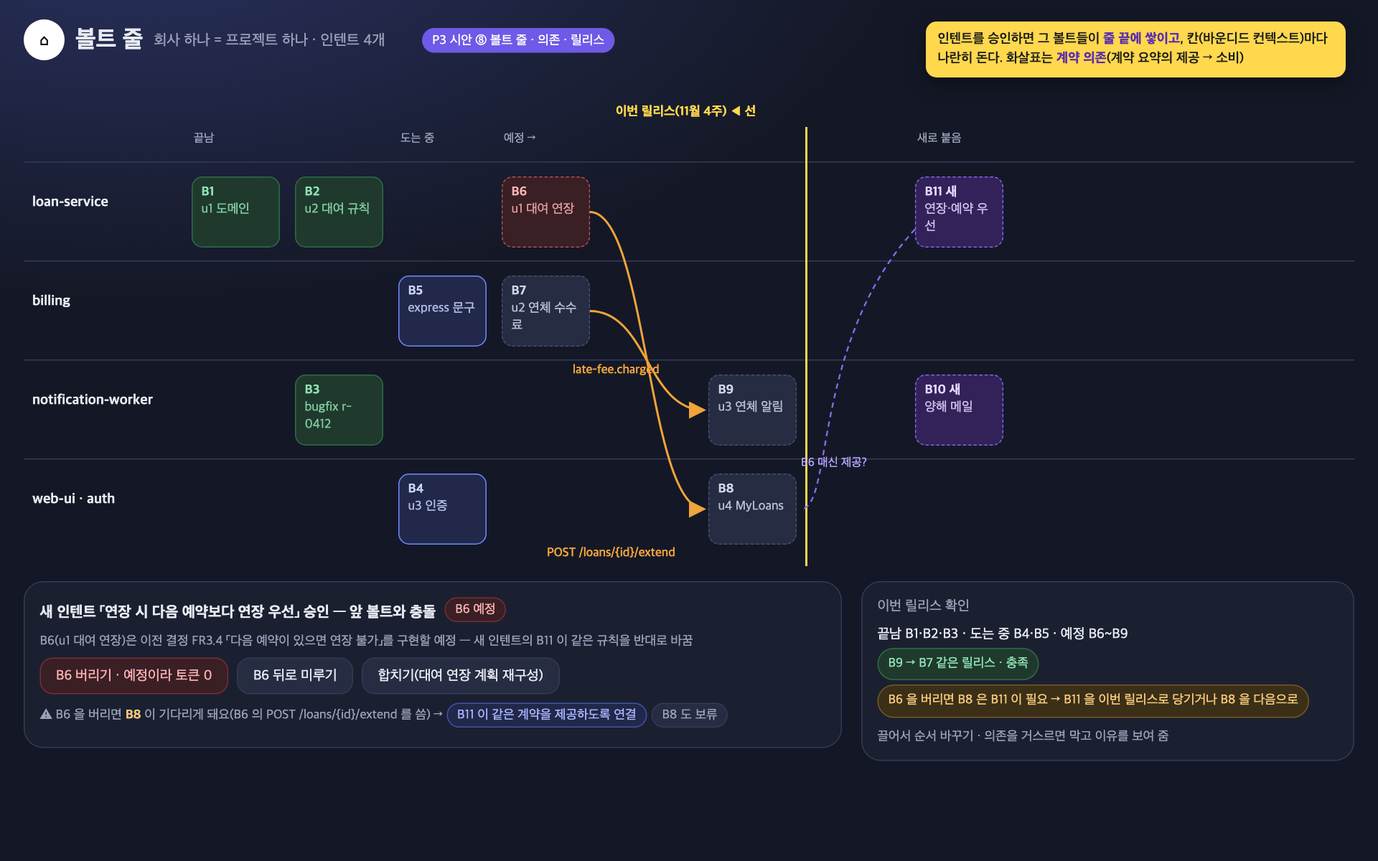
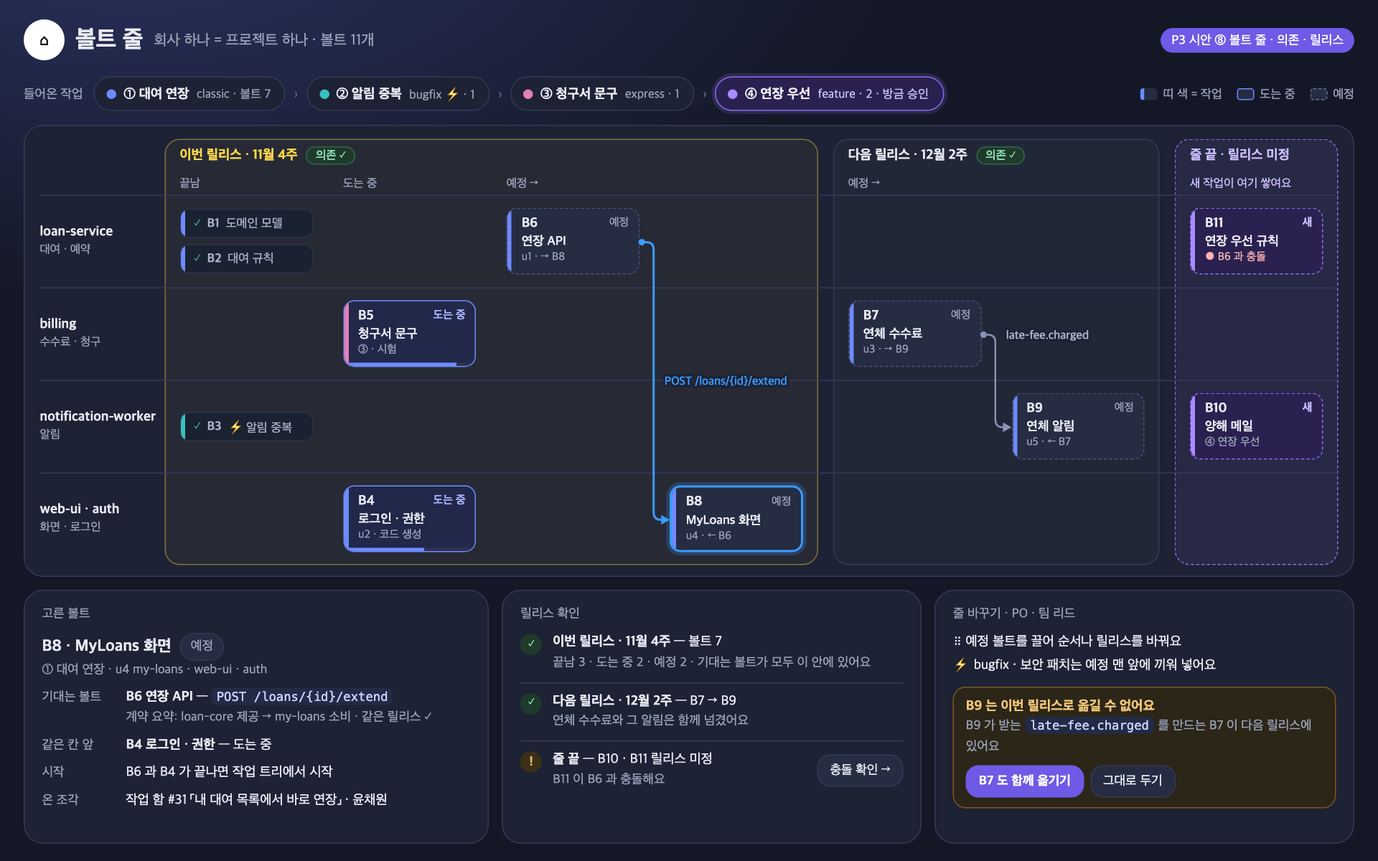
docs(robo-dlc): 볼트 줄 시안 다시 그림 — 릴리스 묶음·의존 연결선, 충돌 화면 ⑨ 분리

diff --git a/docs/robo-dlc/p3-mock/mock.html b/docs/robo-dlc/p3-mock/mock.html
@@ -235,19 +235,217 @@ table{border-collapse:collapse;width:100%;font-size:13px}th,td{text-align:left;p
 </section>
 
 
+<!-- 8·9. 볼트 줄 (v2) -->
+<style>
+.c1{--ic:#6e8bff}.c2{--ic:#35c2c1}.c3{--ic:#e57fb5}.c4{--ic:#a98bff}
+.bl-int{display:flex;align-items:center;gap:8px;height:34px;margin-bottom:12px;font-size:12.5px}
+.bl-int .lab{color:var(--sub);font-size:12px;margin-right:2px}
+.bl-int .arr{color:#5b6385}
+.ipill{display:flex;align-items:center;gap:7px;height:32px;padding:0 13px 0 11px;border-radius:16px;background:var(--panel);border:1px solid var(--line);white-space:nowrap}
+.ipill i{width:9px;height:9px;border-radius:50%;background:var(--ic)}
+.ipill span{color:var(--sub);font-size:11.5px}
+.ipill.new{border-color:#8b6cf0;background:#2a2150;box-shadow:0 0 0 3px rgba(139,108,240,.18)}
+.ipill.new span{color:#cdbfff}
+.ipill.clash{border-color:#ef5b5b;background:#3a1f25;box-shadow:0 0 0 3px rgba(239,91,91,.16)}
+.ipill.clash span{color:#ffb3b3}
+.bl-int .lg{margin-left:auto;color:var(--sub);font-size:11.5px;display:flex;gap:14px;align-items:center}
+.lg em{font-style:normal;display:inline-flex;align-items:center;gap:5px}
+.lg .sw{display:inline-block;width:16px;height:11px;border-radius:3px;background:var(--cell)}
+.board{position:relative;display:grid;grid-template-columns:116px repeat(4,1fr) 14px repeat(2,1fr) 14px 1fr;grid-template-rows:30px 22px repeat(4,86px);padding:12px 14px;height:420px}
+.board>svg{position:absolute;left:0;top:0;width:100%;height:100%;z-index:3;pointer-events:none}
+.bk{grid-row:1/7;border-radius:14px;border:1px solid var(--line);background:rgba(255,255,255,.025)}
+.bk.now{grid-column:2/6;background:rgba(255,216,77,.045);border-color:rgba(255,216,77,.42)}
+.bk.next{grid-column:7/9}
+.bk.tail{grid-column:10;background:rgba(139,108,240,.09);border:1px dashed #8b6cf0}
+.bkt{grid-row:1;align-self:center;padding:0 14px;display:flex;align-items:center;gap:8px;font-size:12.5px;font-weight:700;z-index:1;white-space:nowrap}
+.bkt .chip{margin:0;font-weight:500;font-size:11px;padding:1px 8px}
+.stl{grid-row:2;font-size:11px;color:var(--sub);padding:0 14px;align-self:center;z-index:1;white-space:nowrap}
+.ln{grid-column:1/-1;border-top:1px solid var(--line)}
+.ll{grid-column:1;align-self:center;font-size:12.5px;font-weight:700;line-height:1.35;z-index:1}
+.ll small{display:block;font-weight:400;font-size:11px;color:var(--sub)}
+.bolt{margin:12px 14px;border-radius:10px;background:var(--cell);border:1px dashed #4a5274;padding:6px 9px 6px 13px;position:relative;font-size:12px;line-height:1.32;z-index:2;overflow:hidden}
+.bolt::before,.dpill::before{content:"";position:absolute;left:0;top:0;bottom:0;width:4px;background:var(--ic)}
+.bolt .bh{display:flex;justify-content:space-between;align-items:center}
+.bolt .bh b{font-size:12.5px}
+.bolt .st{font-size:10.5px;color:var(--sub)}
+.bolt .bt{font-weight:600;white-space:nowrap;overflow:hidden;text-overflow:ellipsis}
+.bolt .bm{font-size:10.5px;color:var(--sub);margin-top:1px;white-space:nowrap}
+.bolt.run{border:1.5px solid #6e8bff;background:#22284a}
+.bolt.run .st{color:#aab8ff;font-weight:600}
+.bolt .pg{position:absolute;left:4px;right:0;bottom:0;height:3px;background:#2b3150}
+.bolt .pg i{display:block;height:100%;background:#6e8bff}
+.bolt.sel{border:2px solid #3b9bff;box-shadow:0 0 0 3px rgba(59,155,255,.22)}
+.bolt.nw{border:1.5px dashed #8b6cf0;background:#2a2150}
+.bolt.nw .st{color:#cdbfff;font-weight:700}
+.bolt.bad{border:1.5px solid #ef5b5b;background:#3a1f25}
+.bolt.bad .st,.bolt .st.r{color:#ffb3b3;font-weight:700}
+.bolt.wt{border:1.5px solid #f0a43a;background:#3b2f17}
+.bolt.wt .st{color:#f3c77a;font-weight:700}
+.dn{margin:0 14px;display:flex;flex-direction:column;gap:6px;justify-content:center;z-index:2}
+.dpill{height:27px;border-radius:8px;background:#1a2130;border:1px solid #2a3248;display:flex;align-items:center;gap:6px;padding:0 8px 0 12px;font-size:11.5px;color:#aab1c8;position:relative;overflow:hidden;white-space:nowrap}
+.dpill .ck{color:#3fbf7f;font-weight:700}
+.pns{display:flex;gap:12px;margin-top:12px;height:236px}
+.pn{padding:13px 16px;font-size:12.5px;line-height:1.5;overflow:hidden}
+.pn .h{font-size:12px;color:var(--sub);margin:0 0 8px}
+.pn code,.q code{font-family:ui-monospace,Menlo,monospace;font-size:11.5px;color:#c9d3ff;background:#232a45;border-radius:5px;padding:1px 5px}
+.kv{display:grid;grid-template-columns:70px 1fr;gap:8px;margin-top:7px}
+.kv>span{color:var(--sub);font-size:12px}
+.rl{display:flex;gap:10px;align-items:flex-start;padding:8px 0;border-top:1px solid var(--line)}
+.rl:first-of-type{border-top:0;padding-top:0}
+.ic{flex:none;width:20px;height:20px;border-radius:50%;display:grid;place-items:center;font-size:11px;font-weight:800;margin-top:1px}
+.ic.ok{background:#1f3a2c;color:#8fe0b4}.ic.wn{background:#3b2f17;color:#f3c77a}
+.blk{border:1px solid #7a5a22;background:#2c2618;border-radius:12px;padding:9px 11px;margin-top:9px}
+.opt{display:flex;align-items:center;gap:9px;padding:6px 10px;border-radius:10px;border:1px solid var(--line);background:var(--cell);margin-bottom:6px;white-space:nowrap}
+.opt .rd{width:14px;height:14px;border-radius:50%;border:2px solid #6b7396;flex:none}
+.opt.on{border-color:#8b6cf0;background:#2a2150}
+.opt.on .rd{border-color:#a98bff;background:radial-gradient(#a98bff 0 42%,transparent 48%)}
+.opt span{color:var(--sub);font-size:11.5px}
+.rec{font-size:10px;font-weight:700;color:#1b1b1b;background:#ffd84d;border-radius:8px;padding:1px 6px}
+.stp{display:inline-grid;place-items:center;width:18px;height:18px;border-radius:50%;background:var(--vio);color:#fff;font-size:11px;font-weight:700;margin-right:6px}
+</style>
+
 <!-- 8. 볼트 줄 -->
 <section class="screen" id="s8">
-  <div class="top"><div class="home">⌂</div><h1>볼트 줄</h1><span class="sl">회사 하나 = 프로젝트 하나 · 인텐트 4개</span><span class="tag" style="margin-left:24px">P3 시안 ⑧ 볼트 줄 · 의존 · 릴리스</span></div>
-  <div style="position:absolute;left:22px;top:150px;width:1236px;height:92px;border-top:1px solid #343b56"></div><div style="position:absolute;left:30px;top:180px;width:130px;font-size:13px"><b>loan-service</b></div><div style="position:absolute;left:22px;top:242px;width:1236px;height:92px;border-top:1px solid #343b56"></div><div style="position:absolute;left:30px;top:272px;width:130px;font-size:13px"><b>billing</b></div><div style="position:absolute;left:22px;top:334px;width:1236px;height:92px;border-top:1px solid #343b56"></div><div style="position:absolute;left:30px;top:364px;width:130px;font-size:13px"><b>notification-worker</b></div><div style="position:absolute;left:22px;top:426px;width:1236px;height:92px;border-top:1px solid #343b56"></div><div style="position:absolute;left:30px;top:456px;width:130px;font-size:13px"><b>web-ui · auth</b></div><div style="position:absolute;left:180px;top:122px;font-size:11px;color:#9aa1b8">끝남</div><div style="position:absolute;left:372px;top:122px;font-size:11px;color:#9aa1b8">도는 중</div><div style="position:absolute;left:468px;top:122px;font-size:11px;color:#9aa1b8">예정 →</div><div style="position:absolute;left:852px;top:122px;font-size:11px;color:#9aa1b8">새로 붙음</div><div style="position:absolute;left:748px;top:118px;width:2px;height:408px;background:#ffd84d"></div><div style="position:absolute;left:572px;top:96px;font-size:12px;color:#ffd84d;font-weight:700">이번 릴리스(11월 4주) ◀ 선</div><div style="position:absolute;left:178px;top:164px;width:82px;height:66px;background:#1f3a2c;border:1.5px solid #2f6b49;border-radius:10px;padding:6px 8px;color:#8fe0b4;font-size:12px;line-height:1.35"><b>B1</b><br><span style="opacity:.85">u1 도메인</span></div><div style="position:absolute;left:274px;top:164px;width:82px;height:66px;background:#1f3a2c;border:1.5px solid #2f6b49;border-radius:10px;padding:6px 8px;color:#8fe0b4;font-size:12px;line-height:1.35"><b>B2</b><br><span style="opacity:.85">u2 대여 규칙</span></div><div style="position:absolute;left:274px;top:348px;width:82px;height:66px;background:#1f3a2c;border:1.5px solid #2f6b49;border-radius:10px;padding:6px 8px;color:#8fe0b4;font-size:12px;line-height:1.35"><b>B3</b><br><span style="opacity:.85">bugfix r-0412</span></div><div style="position:absolute;left:370px;top:440px;width:82px;height:66px;background:#22284a;border:1.5px solid #6e8bff;border-radius:10px;padding:6px 8px;color:#c9d3ff;font-size:12px;line-height:1.35"><b>B4</b><br><span style="opacity:.85">u3 인증</span></div><div style="position:absolute;left:370px;top:256px;width:82px;height:66px;background:#22284a;border:1.5px solid #6e8bff;border-radius:10px;padding:6px 8px;color:#c9d3ff;font-size:12px;line-height:1.35"><b>B5</b><br><span style="opacity:.85">express 문구</span></div><div style="position:absolute;left:466px;top:164px;width:82px;height:66px;background:#3a1f25;border:1.5px solid #c0505d;border-style:dashed;border-radius:10px;padding:6px 8px;color:#ffb3b3;font-size:12px;line-height:1.35"><b>B6</b><br><span style="opacity:.85">u1 대여 연장</span></div><div style="position:absolute;left:466px;top:256px;width:82px;height:66px;background:#262c42;border:1.5px solid #4a5274;border-style:dashed;border-radius:10px;padding:6px 8px;color:#cfd5ea;font-size:12px;line-height:1.35"><b>B7</b><br><span style="opacity:.85">u2 연체 수수료</span></div><div style="position:absolute;left:658px;top:440px;width:82px;height:66px;background:#262c42;border:1.5px solid #4a5274;border-style:dashed;border-radius:10px;padding:6px 8px;color:#cfd5ea;font-size:12px;line-height:1.35"><b>B8</b><br><span style="opacity:.85">u4 MyLoans</span></div><div style="position:absolute;left:658px;top:348px;width:82px;height:66px;background:#262c42;border:1.5px solid #4a5274;border-style:dashed;border-radius:10px;padding:6px 8px;color:#cfd5ea;font-size:12px;line-height:1.35"><b>B9</b><br><span style="opacity:.85">u3 연체 알림</span></div><div style="position:absolute;left:850px;top:348px;width:82px;height:66px;background:#33215a;border:1.5px solid #8b6cf0;border-style:dashed;border-radius:10px;padding:6px 8px;color:#e2d8ff;font-size:12px;line-height:1.35"><b>B10 새</b><br><span style="opacity:.85">양해 메일</span></div><div style="position:absolute;left:850px;top:164px;width:82px;height:66px;background:#33215a;border:1.5px solid #8b6cf0;border-style:dashed;border-radius:10px;padding:6px 8px;color:#e2d8ff;font-size:12px;line-height:1.35"><b>B11 새</b><br><span style="opacity:.85">연장·예약 우선</span></div><svg style="position:absolute;left:0;top:0" width="1280" height="800"><defs><marker id="ah" markerWidth="8" markerHeight="8" refX="7" refY="4" orient="auto"><path d="M0,0 L8,4 L0,8 z" fill="#f0a43a"/></marker></defs>
-<path d="M548,197.0 C601.0,197.0 601.0,473.0 654,473.0" stroke="#f0a43a" stroke-width="2" fill="none" marker-end="url(#ah)"/><text x="508" y="517.0" fill="#f0a43a" font-size="11.5" font-weight="600">POST /loans/{id}/extend</text><path d="M548,289.0 C601.0,289.0 601.0,381.0 654,381.0" stroke="#f0a43a" stroke-width="2" fill="none" marker-end="url(#ah)"/><text x="532" y="347.0" fill="#f0a43a" font-size="11.5" font-weight="600">late-fee.charged</text>
-<path d="M850,213.0 C754,317.0 774,473.0 744,473.0" stroke="#8b6cf0" stroke-width="1.5" stroke-dasharray="5 4" fill="none"/><text x="744" y="433.0" fill="#b9a6ff" font-size="11">B6 대신 제공?</text></svg><div class="glass" style="position:absolute;left:22px;top:540px;width:760px;padding:14px;background:#1b2031">
-<div style="display:flex;gap:8px;align-items:center"><b>새 인텐트 「연장 시 다음 예약보다 연장 우선」 승인 — 앞 볼트와 충돌</b><span class="chip r">B6 예정</span></div>
-<div class="note" style="margin:6px 0 8px">B6(u1 대여 연장)은 이전 결정 FR3.4 「다음 예약이 있으면 연장 불가」를 구현할 예정 — 새 인텐트의 B11 이 같은 규칙을 반대로 바꿈</div>
-<div style="display:flex;gap:8px;flex-wrap:wrap"><span class="btn d">B6 버리기 · 예정이라 토큰 0</span><span class="btn">B6 뒤로 미루기</span><span class="btn">합치기(대여 연장 계획 재구성)</span></div>
-<div class="note" style="margin-top:8px">⚠ B6 을 버리면 <b style="color:#f3c77a">B8</b> 이 기다리게 돼요(B6 의 POST /loans/{id}/extend 를 씀) → <span class="chip a">B11 이 같은 계약을 제공하도록 연결</span><span class="chip">B8 도 보류</span></div></div>
-<div class="glass" style="position:absolute;left:800px;top:540px;width:458px;padding:14px;background:#1b2031">
-<p class="h">이번 릴리스 확인</p>
-<div style="font-size:13px;line-height:1.9">끝남 B1·B2·B3 · 도는 중 B4·B5 · 예정 B6~B9<br><span class="chip on">B9 → B7 같은 릴리스 · 충족</span><br><span class="chip w">B6 을 버리면 B8 은 B11 이 필요 → B11 을 이번 릴리스로 당기거나 B8 을 다음으로</span></div>
-<div class="note" style="margin-top:6px">끌어서 순서 바꾸기 · 의존을 거스르면 막고 이유를 보여 줌</div></div><div class="callout" style="left:860px;top:20px;max-width:390px">인텐트를 승인하면 그 볼트들이 <b>줄 끝에 쌓이고</b>, 칸(바운디드 컨텍스트)마다 나란히 돈다. 화살표는 <b>계약 의존</b>(계약 요약의 제공 → 소비)</div>
+  <div class="top"><div class="home">⌂</div><h1>볼트 줄</h1><span class="sl">회사 하나 = 프로젝트 하나 · 볼트 11개</span><span class="tag">P3 시안 ⑧ 볼트 줄 · 의존 · 릴리스</span></div>
+  <div class="bl-int">
+    <span class="lab">들어온 작업</span>
+    <div class="ipill c1"><i></i><b>① 대여 연장</b><span>classic · 볼트 7</span></div><span class="arr">›</span>
+    <div class="ipill c2"><i></i><b>② 알림 중복</b><span>bugfix ⚡ · 1</span></div><span class="arr">›</span>
+    <div class="ipill c3"><i></i><b>③ 청구서 문구</b><span>express · 1</span></div><span class="arr">›</span>
+    <div class="ipill c4 new"><i></i><b>④ 연장 우선</b><span>feature · 2 · 방금 승인</span></div>
+    <div class="lg"><em><span class="sw" style="border-left:4px solid #6e8bff"></span>띠 색 = 작업</em><em><span class="sw" style="border:1.5px solid #6e8bff"></span>도는 중</em><em><span class="sw" style="border:1px dashed #6b7396"></span>예정</em></div>
+  </div>
+  <div class="glass board">
+    <div class="bk now"></div><div class="bk next"></div><div class="bk tail"></div>
+    <div class="bkt" style="grid-column:2/6;color:#ffd84d">이번 릴리스 · 11월 4주<span class="chip on">의존 ✓</span></div>
+    <div class="bkt" style="grid-column:7/9">다음 릴리스 · 12월 2주<span class="chip on">의존 ✓</span></div>
+    <div class="bkt" style="grid-column:10;color:#cdbfff">줄 끝 · 릴리스 미정</div>
+    <div class="stl" style="grid-column:2">끝남</div><div class="stl" style="grid-column:3">도는 중</div><div class="stl" style="grid-column:4/6">예정 →</div>
+    <div class="stl" style="grid-column:7/9">예정 →</div><div class="stl" style="grid-column:10;color:#cdbfff">새 작업이 여기 쌓여요</div>
+    <div class="ln" style="grid-row:3"></div><div class="ln" style="grid-row:4"></div><div class="ln" style="grid-row:5"></div><div class="ln" style="grid-row:6"></div>
+    <div class="ll" style="grid-row:3">loan-service<small>대여 · 예약</small></div>
+    <div class="ll" style="grid-row:4">billing<small>수수료 · 청구</small></div>
+    <div class="ll" style="grid-row:5">notification-worker<small>알림</small></div>
+    <div class="ll" style="grid-row:6">web-ui · auth<small>화면 · 로그인</small></div>
+
+    <div class="dn" style="grid-column:2;grid-row:3"><div class="dpill c1"><span class="ck">✓</span><b>B1</b> 도메인 모델</div><div class="dpill c1"><span class="ck">✓</span><b>B2</b> 대여 규칙</div></div>
+    <div class="dn" style="grid-column:2;grid-row:5"><div class="dpill c2"><span class="ck">✓</span><b>B3</b> ⚡ 알림 중복</div></div>
+    <div class="bolt run c3" style="grid-column:3;grid-row:4"><div class="bh"><b>B5</b><span class="st">도는 중</span></div><div class="bt">청구서 문구</div><div class="bm">③ · 시험</div><div class="pg"><i style="width:85%"></i></div></div>
+    <div class="bolt run c1" style="grid-column:3;grid-row:6"><div class="bh"><b>B4</b><span class="st">도는 중</span></div><div class="bt">로그인 · 권한</div><div class="bm">u2 · 코드 생성</div><div class="pg"><i style="width:60%"></i></div></div>
+    <div class="bolt c1" id="a6" style="grid-column:4;grid-row:3"><div class="bh"><b>B6</b><span class="st">예정</span></div><div class="bt">연장 API</div><div class="bm">u1 · → B8</div></div>
+    <div class="bolt c1 sel" id="a8" data-dep="a6" data-col="#3b9bff" data-w="2" data-label="POST /loans/{id}/extend" style="grid-column:5;grid-row:6"><div class="bh"><b>B8</b><span class="st">예정</span></div><div class="bt">MyLoans 화면</div><div class="bm">u4 · ← B6</div></div>
+    <div class="bolt c1" id="a7" style="grid-column:7;grid-row:4"><div class="bh"><b>B7</b><span class="st">예정</span></div><div class="bt">연체 수수료</div><div class="bm">u3 · → B9</div></div>
+    <div class="bolt c1" id="a9" data-dep="a7" data-label="late-fee.charged" data-ly="src" style="grid-column:8;grid-row:5"><div class="bh"><b>B9</b><span class="st">예정</span></div><div class="bt">연체 알림</div><div class="bm">u5 · ← B7</div></div>
+    <div class="bolt nw c4" style="grid-column:10;grid-row:3"><div class="bh"><b>B11</b><span class="st">새</span></div><div class="bt">연장 우선 규칙</div><div class="bm" style="color:#ffb3b3">● B6 과 충돌</div></div>
+    <div class="bolt nw c4" style="grid-column:10;grid-row:5"><div class="bh"><b>B10</b><span class="st">새</span></div><div class="bt">양해 메일</div><div class="bm">④ 연장 우선</div></div>
+    <svg></svg>
+  </div>
+  <div class="pns">
+    <div class="glass pn" style="flex:1.12">
+      <p class="h">고른 볼트</p>
+      <div style="display:flex;align-items:center;gap:8px"><b style="font-size:15px">B8 · MyLoans 화면</b><span class="chip" style="margin:0">예정</span></div>
+      <div class="note">① 대여 연장 · u4 my-loans · web-ui · auth</div>
+      <div class="kv"><span>기대는 볼트</span><div><b>B6 연장 API</b> — <code>POST /loans/{id}/extend</code><br><span class="note">계약 요약: loan-core 제공 → my-loans 소비 · 같은 릴리스 ✓</span></div></div>
+      <div class="kv"><span>같은 칸 앞</span><div><b>B4 로그인 · 권한</b> — 도는 중</div></div>
+      <div class="kv"><span>시작</span><div>B6 과 B4 가 끝나면 작업 트리에서 시작</div></div>
+      <div class="kv"><span>온 조각</span><div>작업 함 #31 「내 대여 목록에서 바로 연장」 · 윤채원</div></div>
+    </div>
+    <div class="glass pn" style="flex:1">
+      <p class="h">릴리스 확인</p>
+      <div class="rl"><div class="ic ok">✓</div><div><b>이번 릴리스 · 11월 4주</b> — 볼트 7<br><span class="note">끝남 3 · 도는 중 2 · 예정 2 · 기대는 볼트가 모두 이 안에 있어요</span></div></div>
+      <div class="rl"><div class="ic ok">✓</div><div><b>다음 릴리스 · 12월 2주</b> — B7 → B9<br><span class="note">연체 수수료와 그 알림은 함께 넘겼어요</span></div></div>
+      <div class="rl"><div class="ic wn">!</div><div style="flex:1"><b>줄 끝</b> — B10 · B11 릴리스 미정<br><span class="note">B11 이 B6 과 충돌해요</span></div><span class="btn" style="padding:5px 11px;font-size:12px;align-self:center">충돌 확인 →</span></div>
+    </div>
+    <div class="glass pn" style="flex:1">
+      <p class="h">줄 바꾸기 · PO · 팀 리드</p>
+      <div>⠿ 예정 볼트를 끌어 순서나 릴리스를 바꿔요</div>
+      <div style="margin-top:3px">⚡ bugfix · 보안 패치는 예정 맨 앞에 끼워 넣어요</div>
+      <div class="blk"><b style="color:#f3c77a">B9 는 이번 릴리스로 옮길 수 없어요</b><br><span class="note">B9 가 받는 <code>late-fee.charged</code> 를 만드는 B7 이 다음 릴리스에 있어요</span>
+        <div style="margin-top:7px;display:flex;gap:6px"><span class="btn p" style="padding:5px 11px;font-size:12px">B7 도 함께 옮기기</span><span class="btn" style="padding:5px 11px;font-size:12px">그대로 두기</span></div></div>
+    </div>
+  </div>
 </section>
+
+<!-- 9. 충돌 → 버리기 -->
+<section class="screen" id="s9">
+  <div class="top"><div class="home">⌂</div><h1>볼트 줄</h1><span class="sl">새 작업 ④ 의 볼트가 앞 볼트 B6 과 충돌</span><span class="tag">P3 시안 ⑨ 충돌 → 앞 볼트 버리기</span></div>
+  <div class="bl-int">
+    <span class="lab">들어온 작업</span>
+    <div class="ipill c1"><i></i><b>① 대여 연장</b><span>classic · 볼트 7</span></div><span class="arr">›</span>
+    <div class="ipill c2"><i></i><b>② 알림 중복</b><span>bugfix ⚡ · 1</span></div><span class="arr">›</span>
+    <div class="ipill c3"><i></i><b>③ 청구서 문구</b><span>express · 1</span></div><span class="arr">›</span>
+    <div class="ipill c4 clash"><i></i><b>④ 연장 우선</b><span>B11 이 ① 의 B6 과 충돌</span></div>
+    <div class="lg"><em><span class="sw" style="border:1.5px solid #ef5b5b;background:#3a1f25"></span>충돌</em><em><span class="sw" style="border:1.5px solid #f0a43a;background:#3b2f17"></span>기다리게 됨</em><em><span class="sw" style="border:1.5px dashed #8b6cf0;background:#2a2150"></span>새 볼트</em></div>
+  </div>
+  <div class="glass board">
+    <div class="bk now"></div><div class="bk next"></div><div class="bk tail"></div>
+    <div class="bkt" style="grid-column:2/6;color:#ffd84d">이번 릴리스 · 11월 4주<span class="chip w">B6 을 버리면 B8 이 기다려요</span></div>
+    <div class="bkt" style="grid-column:7/9">다음 릴리스 · 12월 2주<span class="chip on">의존 ✓</span></div>
+    <div class="bkt" style="grid-column:10;color:#cdbfff">줄 끝 · 릴리스 미정</div>
+    <div class="stl" style="grid-column:2">끝남</div><div class="stl" style="grid-column:3">도는 중</div><div class="stl" style="grid-column:4/6">예정 →</div>
+    <div class="stl" style="grid-column:7/9">예정 →</div><div class="stl" style="grid-column:10;color:#cdbfff">새 작업이 여기 쌓여요</div>
+    <div class="ln" style="grid-row:3"></div><div class="ln" style="grid-row:4"></div><div class="ln" style="grid-row:5"></div><div class="ln" style="grid-row:6"></div>
+    <div class="ll" style="grid-row:3">loan-service<small>대여 · 예약</small></div>
+    <div class="ll" style="grid-row:4">billing<small>수수료 · 청구</small></div>
+    <div class="ll" style="grid-row:5">notification-worker<small>알림</small></div>
+    <div class="ll" style="grid-row:6">web-ui · auth<small>화면 · 로그인</small></div>
+
+    <div class="dn" style="grid-column:2;grid-row:3;opacity:.55"><div class="dpill c1"><span class="ck">✓</span><b>B1</b> 도메인 모델</div><div class="dpill c1"><span class="ck">✓</span><b>B2</b> 대여 규칙</div></div>
+    <div class="dn" style="grid-column:2;grid-row:5;opacity:.55"><div class="dpill c2"><span class="ck">✓</span><b>B3</b> ⚡ 알림 중복</div></div>
+    <div class="bolt run c3" style="grid-column:3;grid-row:4;opacity:.55"><div class="bh"><b>B5</b><span class="st">도는 중</span></div><div class="bt">청구서 문구</div><div class="bm">③ · 시험</div><div class="pg"><i style="width:85%"></i></div></div>
+    <div class="bolt run c1" style="grid-column:3;grid-row:6;opacity:.55"><div class="bh"><b>B4</b><span class="st">도는 중</span></div><div class="bt">로그인 · 권한</div><div class="bm">u2 · 코드 생성</div><div class="pg"><i style="width:60%"></i></div></div>
+    <div class="bolt bad c1" id="b6" style="grid-column:4;grid-row:3"><div class="bh"><b>B6</b><span class="st">충돌 · 예정</span></div><div class="bt">연장 API</div><div class="bm">FR3.4 연장 불가</div></div>
+    <div class="bolt wt c1" id="b8" data-dep="b6" data-col="#ef5b5b" data-dash="5 4" data-label="POST /loans/{id}/extend ✕" style="grid-column:5;grid-row:6"><div class="bh"><b>B8</b><span class="st">B6 필요</span></div><div class="bt">MyLoans 화면</div><div class="bm">u4 · ← B6</div></div>
+    <div class="bolt c1" style="grid-column:7;grid-row:4;opacity:.55"><div class="bh"><b>B7</b><span class="st">예정</span></div><div class="bt">연체 수수료</div><div class="bm">u3 · → B9</div></div>
+    <div class="bolt c1" style="grid-column:8;grid-row:5;opacity:.55"><div class="bh"><b>B9</b><span class="st">예정</span></div><div class="bt">연체 알림</div><div class="bm">u5 · ← B7</div></div>
+    <div class="bolt nw c4" data-pull="b6" data-label="B6 자리로 당김" style="grid-column:10;grid-row:3"><div class="bh"><b>B11</b><span class="st">새</span></div><div class="bt">연장 우선 규칙</div><div class="bm">FR3.4 를 반대로</div></div>
+    <div class="bolt nw c4" style="grid-column:10;grid-row:5;opacity:.55"><div class="bh"><b>B10</b><span class="st">새</span></div><div class="bt">양해 메일</div><div class="bm">④ 연장 우선</div></div>
+    <svg></svg>
+  </div>
+  <div class="pns">
+    <div class="glass pn" style="flex:1.05">
+      <p class="h"><span class="stp">1</span>무엇이 충돌하나</p>
+      <div class="q" style="border-left-color:#ef5b5b"><span class="note">앞 결정 FR3.4 · 10월 28일 한지수 승인 · B6 이 구현할 예정</span><br>「다음 예약이 있으면 연장할 수 없다」</div>
+      <div class="q" style="border-left-color:#8b6cf0"><span class="note">새 작업 ④ · 오늘 오세린 승인 · B11 이 구현</span><br>「연장이 다음 예약보다 우선한다」</div>
+      <div class="note" style="margin-top:8px">같은 요구사항 FR3.4 와 같은 경로 <code>/loans/{id}/extend</code> 를 건드려요</div>
+    </div>
+    <div class="glass pn" style="flex:1">
+      <p class="h"><span class="stp">2</span>앞 볼트 B6 을 어떻게 할까요</p>
+      <div class="opt on"><i class="rd"></i><b>버리기</b><span class="rec">추천</span><span>아직 예정 · 쓴 토큰 0</span></div>
+      <div class="opt"><i class="rd"></i><b>뒤로 미루기</b><span>B11 뒤에서 다시 계획</span></div>
+      <div class="opt"><i class="rd"></i><b>합치기</b><span>④ 를 ① 의 계획 재구성으로</span></div>
+      <div class="note" style="margin-top:8px">도는 중이면 「멈추고 버리기」, 끝난 볼트면 「되돌리는 볼트 추가」를 권해요</div>
+    </div>
+    <div class="glass pn" style="flex:1.05">
+      <p class="h"><span class="stp">3</span>B6 에 기대던 B8 MyLoans 화면</p>
+      <div class="opt on"><i class="rd"></i><b>B11 이 대신 제공</b><span class="rec">추천</span><span>B11 을 B6 자리로 당김</span></div>
+      <div class="opt"><i class="rd"></i><b>B8 보류</b><span>다음 릴리스로</span></div>
+      <div class="opt"><i class="rd"></i><b>B8 도 버리기</b></div>
+      <div style="display:flex;align-items:center;gap:8px;margin-top:9px"><span class="btn p" style="padding:6px 13px">이대로 적용</span><span class="btn" style="padding:6px 13px">취소</span><span class="note" style="line-height:1.35">적용하면 이번 릴리스 의존 ✓<br>한지수(팀 리드) · 사유는 결정 기록에</span></div>
+    </div>
+  </div>
+</section>
+
+<script>
+document.querySelectorAll('.board').forEach(function (bd) {
+  var svg = bd.querySelector('svg'), NS = 'http://www.w3.org/2000/svg'
+  function mk(n, a, txt) { var e = document.createElementNS(NS, n); for (var k in a) e.setAttribute(k, a[k]); if (txt) e.textContent = txt; svg.appendChild(e); return e }
+  function R(el) { var a = el.getBoundingClientRect(), r = bd.getBoundingClientRect(); return { l: a.left - r.left, r: a.right - r.left, cy: (a.top + a.bottom) / 2 - r.top } }
+  function label(x, y, s, col, anchor) { mk('text', { x: x, y: y + 4, fill: col, 'font-size': 11, 'font-weight': 600, 'text-anchor': anchor || 'start', style: 'paint-order:stroke;stroke:#1d2234;stroke-width:5px;stroke-linejoin:round' }, s) }
+  bd.querySelectorAll('[data-dep]').forEach(function (to) {
+    var s = R(bd.querySelector('#' + to.dataset.dep)), t = R(to), col = to.dataset.col || '#8a93b5'
+    var gx = s.r + 12, r = 7, d = t.cy > s.cy ? 1 : -1
+    mk('path', { d: 'M' + (s.r + 1) + ',' + s.cy + ' H' + (gx - r) + ' Q' + gx + ',' + s.cy + ' ' + gx + ',' + (s.cy + d * r) + ' V' + (t.cy - d * r) + ' Q' + gx + ',' + t.cy + ' ' + (gx + r) + ',' + t.cy + ' H' + (t.l - 7), stroke: col, 'stroke-width': to.dataset.w || 1.6, fill: 'none', 'stroke-dasharray': to.dataset.dash || '' })
+    mk('path', { d: 'M' + (t.l - 9) + ',' + (t.cy - 4.5) + ' L' + (t.l - 1) + ',' + t.cy + ' L' + (t.l - 9) + ',' + (t.cy + 4.5) + ' z', fill: col })
+    mk('circle', { cx: s.r + 1, cy: s.cy, r: 3, fill: col })
+    if (to.dataset.label) label(gx + 10, to.dataset.ly === 'src' ? s.cy : (s.cy + t.cy) / 2, to.dataset.label, col === '#8a93b5' ? '#aab1c8' : col)
+  })
+  bd.querySelectorAll('[data-pull]').forEach(function (el) {
+    var a = R(el), t = R(bd.querySelector('#' + el.dataset.pull)), y = a.cy - 15, x1 = a.l - 3, x2 = t.r + 12, col = '#a98bff'
+    mk('path', { d: 'M' + x1 + ',' + y + ' H' + x2, stroke: col, 'stroke-width': 1.8, fill: 'none', 'stroke-dasharray': '6 4' })
+    mk('path', { d: 'M' + (x2 + 1) + ',' + (y - 5) + ' L' + (x2 - 8) + ',' + y + ' L' + (x2 + 1) + ',' + (y + 5) + ' z', fill: col })
+    label((x1 + x2) / 2, y - 12, el.dataset.label, '#cdbfff', 'middle')
+  })
+})
+</script>
 </body></html>

diff --git a/docs/robo-dlc/plan-intake.md b/docs/robo-dlc/plan-intake.md
@@ -183,13 +183,17 @@
 
 ### 13-1. 구조
 
-- 줄은 「끝남 | 도는 중 | 예정」 순서다. 인텐트의 계획을 승인하면 해당 볼트 계획의 볼트들이 **줄 끝에 예정으로 붙는다**. 인텐트가 쌓이면 볼트도 줄 뒤에 쌓인다.
+- 줄은 릴리스 묶음 셋으로 나뉜다: 「이번 릴리스」(끝남 | 도는 중 | 예정), 「다음 릴리스」, 「줄 끝 · 릴리스 미정」. 인텐트의 계획을 승인하면 해당 볼트 계획의 볼트들이 **줄 끝에 예정으로 붙는다**. 인텐트가 쌓이면 볼트도 줄 뒤에 쌓인다. 볼트의 띠 색은 인텐트를, 테두리는 상태(실선 = 도는 중, 점선 = 예정)를 나타낸다.
 - 줄의 칸은 바운디드 컨텍스트(유닛이 건드리는 구성 요소)별로 나눈다. 의존 관계가 없고 서로 다른 칸에 있는 볼트는 작업 트리에서 병렬로 실행된다(D-1112-25). 같은 칸에서는 앞 볼트가 끝나야 다음 볼트가 시작된다.
 - 예정 볼트에는 인텐트·유닛·완료 기준과 해당 인텐트를 만든 조각(작업 함)이 연결된다.
 - **빠른 칸**: bugfix·security-patch 범위의 인텐트는 권한자가 줄 앞에 끼워 넣을 수 있다. 「보안」 멈춤(D-1112-24)과 함께 쓴다.
-- **순서 바꾸기·릴리스 묶음**: 작업 접수 권한자(PO·팀 리드)가 예정 볼트를 끌어 순서를 바꾸거나 「이번 릴리스」 선을 긋는다. 의존 그래프에 어긋나는 이동은 막는다.
+- **순서 바꾸기·릴리스 묶음**: 작업 접수 권한자(PO·팀 리드)가 예정 볼트를 끌어 순서를 바꾸거나 다른 릴리스 묶음으로 옮긴다. 의존 그래프에 어긋나는 이동은 막는다.
 
 ### 13-2. 새 인텐트가 앞 볼트와 충돌할 때 — 버리기를 권한다
+
+![⑨ 충돌 → 앞 볼트 버리기](p3-mock/p3-9.png)
+
+화면은 세 걸음이다: ① 무엇이 충돌하나(앞 결정과 새 요청을 나란히) → ② 앞 볼트를 어떻게 할까 → ③ 그 볼트에 기대던 볼트를 어떻게 할까. 줄에서는 충돌한 볼트(빨강), 기다리게 되는 볼트(주황), 새 볼트(보라)만 밝게 보인다.
 
 새 인텐트를 승인하면(§3 카드의 「이 계획으로 시작」) Lite가 해당 인텐트의 유닛·구성 요소·요구사항을 줄에 있는 다른 볼트와 대조한다(§5와 같은 낱말·ID·경로 대조). 겹치는 앞 볼트가 있으면 카드에 충돌 줄을 표시한다. 볼트 상태에 맞는 처리도 권한다.
 
